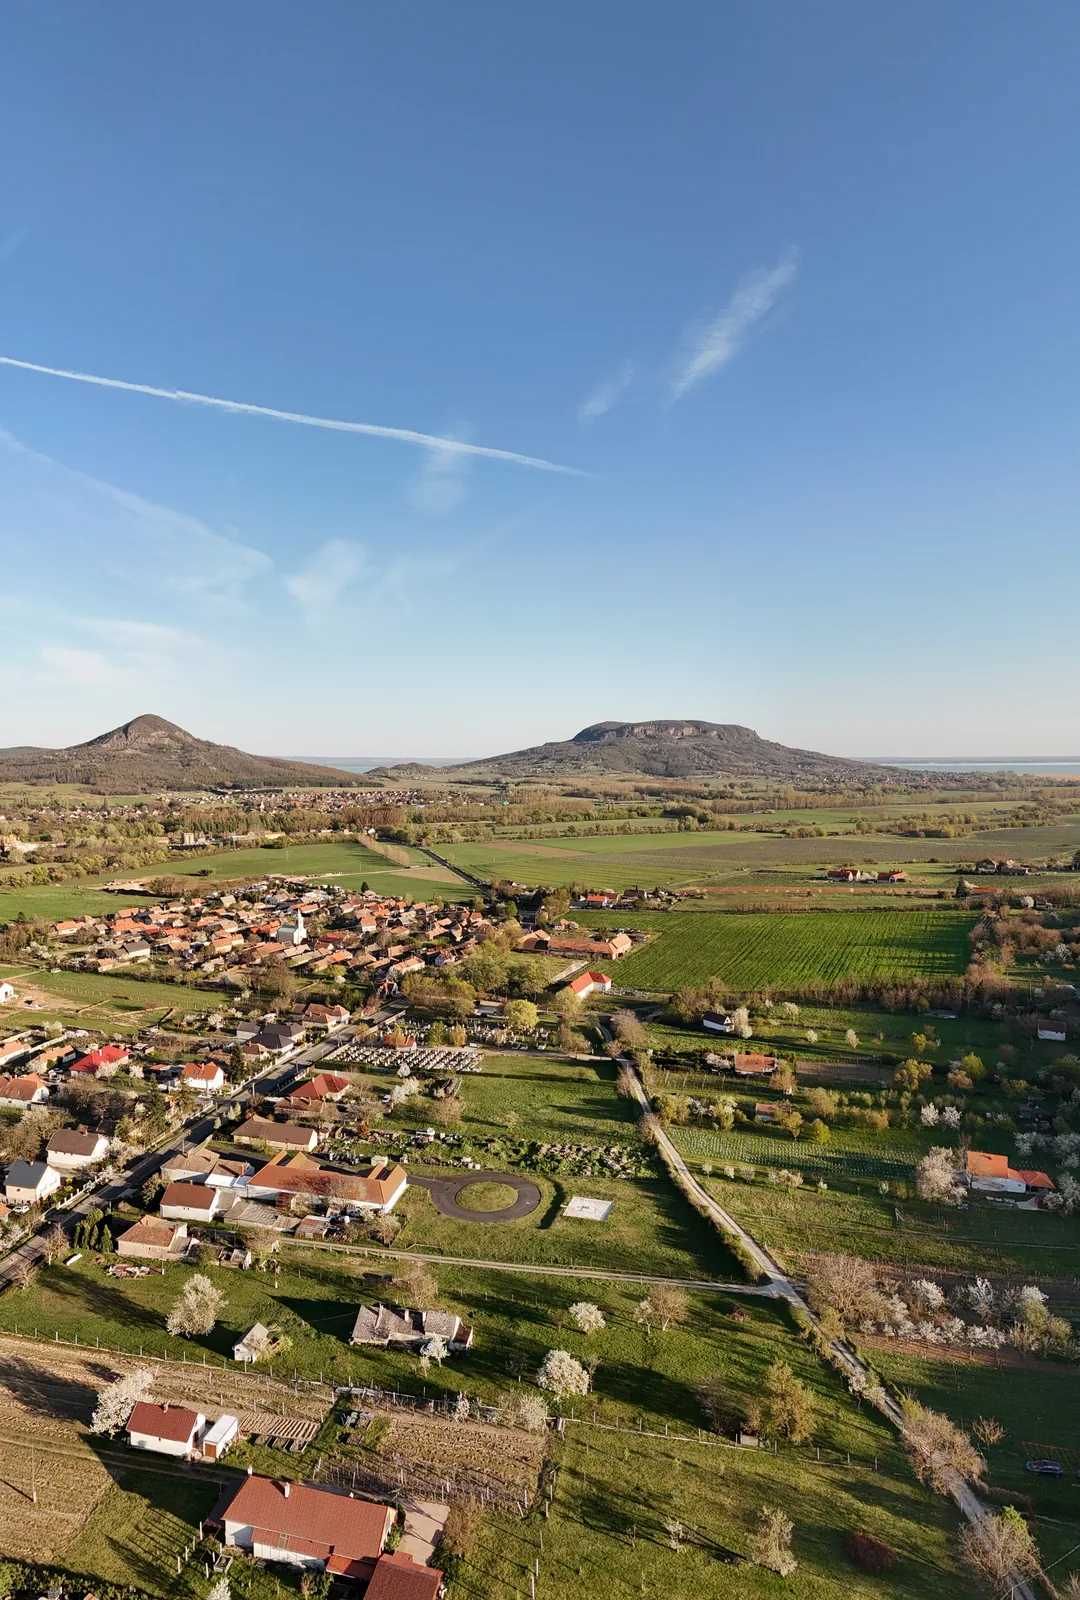
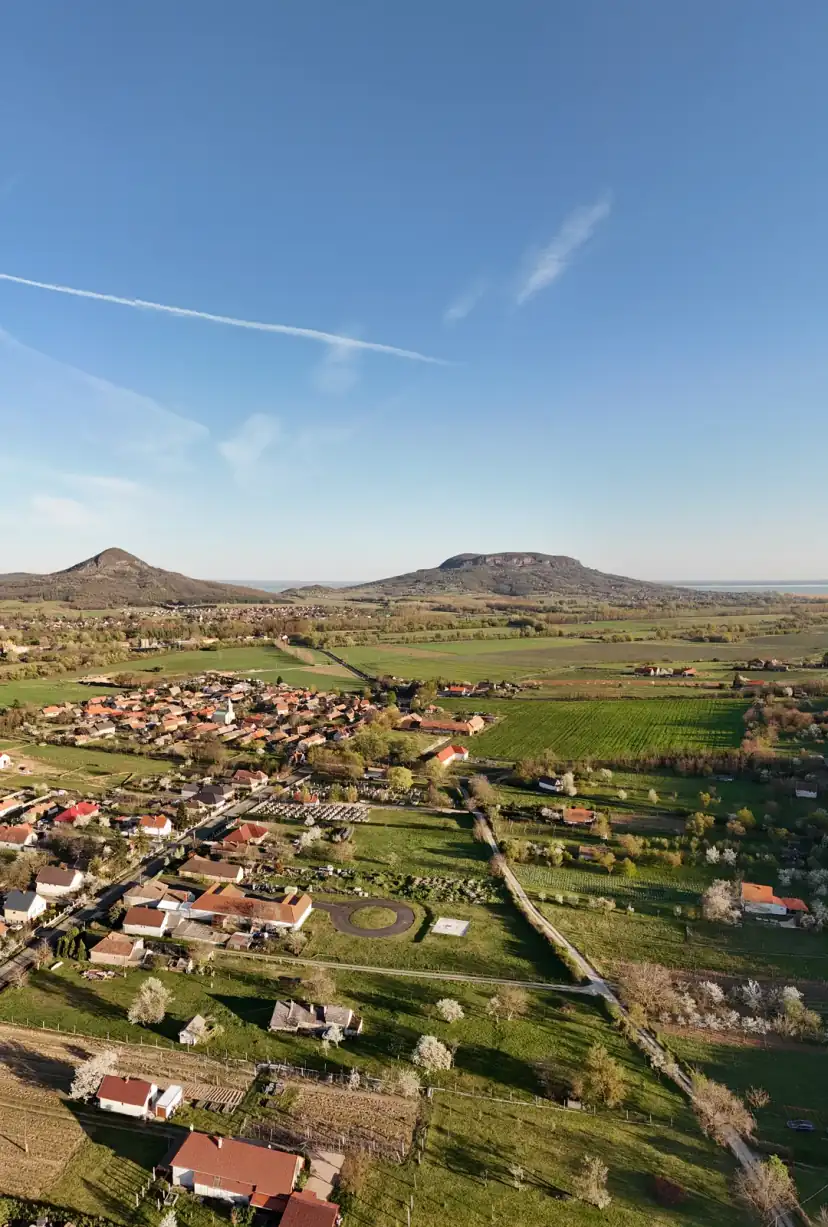
Improve homepage startup performance

diff --git a/public/scripts/consent-init-cookie-refine.js b/public/scripts/consent-init-cookie-refine.js
@@ -42,6 +42,10 @@
     if (marketingGranted) {
       pushEvent("dnd_marketing_granted");
     }
+
+    if ((analyticsGranted || marketingGranted) && typeof window.dndLoadGtm === "function") {
+      window.dndLoadGtm();
+    }
   }
 
   window.dndSetConsentDefaults = function dndSetConsentDefaults() {
@@ -179,6 +183,40 @@
     document.addEventListener("DOMContentLoaded", watchCookieModal);
   } else {
     watchCookieModal();
+  }
+
+  function scheduleKlaroLoad() {
+    if (typeof window.dndLoadKlaro !== "function") {
+      return;
+    }
+
+    const loadKlaro = function () {
+      window.dndLoadKlaro().then(function () {
+        if (typeof window.dndApplyStoredConsent === "function") {
+          window.dndApplyStoredConsent();
+        }
+      }).catch(function () {});
+    };
+
+    const loadSoon = function () {
+      window.setTimeout(loadKlaro, 1200);
+    };
+
+    window.addEventListener("pointerdown", loadKlaro, { once: true, passive: true });
+    window.addEventListener("keydown", loadKlaro, { once: true });
+    window.addEventListener("scroll", loadKlaro, { once: true, passive: true });
+
+    if ("requestIdleCallback" in window) {
+      window.requestIdleCallback(loadSoon, { timeout: 2500 });
+    } else {
+      window.setTimeout(loadSoon, 1800);
+    }
+  }
+
+  if (document.readyState === "loading") {
+    document.addEventListener("DOMContentLoaded", scheduleKlaroLoad, { once: true });
+  } else {
+    scheduleKlaroLoad();
   }
 
   // Defaults are sent inline in BaseLayout before GTM loads.
